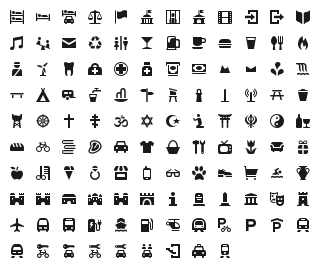
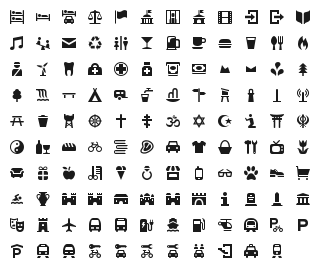
added coniferous and deciduous tree

diff --git a/font/osmic-preview.html b/font/osmic-preview.html
@@ -273,6 +273,8 @@
 .oc-toilets:before,
 .oc-town-hall:before,
 .oc-tram-stop:before,
+.oc-tree-coniferous:before,
+.oc-tree-deciduous:before,
 .oc-waste-basket:before,
 .oc-watchtower:before,
 .oc-water-tower:before,
@@ -404,6 +406,8 @@
 .oc-toilets:before { content: "\f169"; }
 .oc-town-hall:before { content: "\f16a"; }
 .oc-tram-stop:before { content: "\f16b"; }
+.oc-tree-coniferous:before { content: "\f177"; }
+.oc-tree-deciduous:before { content: "\f176"; }
 .oc-waste-basket:before { content: "\f16c"; }
 .oc-watchtower:before { content: "\f16d"; }
 .oc-water-tower:before { content: "\f16e"; }
@@ -423,7 +427,7 @@
   <body class="characters-off">
     <div id="page" class="container">
       <header>
-        <h1>osmic contains 117 glyphs:</h1>
+        <h1>osmic contains 119 glyphs:</h1>
         <a onclick="toggleCharacters(); return false;" href="#">Toggle Preview Characters</a>
       </header>
 
@@ -1894,6 +1898,32 @@
         <div class="usage">
           <input class="class" type="text" readonly="readonly" onClick="this.select();" value=".oc-tram-stop" />
           <input class="point" type="text" readonly="readonly" onClick="this.select();" value="&amp;#xf16b;" />
+        </div>
+      </div>
+      
+      <div class="glyph">
+        <div class="preview-glyphs">
+          <span class="step size-12"><span class="letters">Pp</span><i id="oc-tree-coniferous" class="oc-tree-coniferous"></i></span><span class="step size-14"><span class="letters">Pp</span><i id="oc-tree-coniferous" class="oc-tree-coniferous"></i></span><span class="step size-16"><span class="letters">Pp</span><i id="oc-tree-coniferous" class="oc-tree-coniferous"></i></span><span class="step size-18"><span class="letters">Pp</span><i id="oc-tree-coniferous" class="oc-tree-coniferous"></i></span><span class="step size-21"><span class="letters">Pp</span><i id="oc-tree-coniferous" class="oc-tree-coniferous"></i></span><span class="step size-24"><span class="letters">Pp</span><i id="oc-tree-coniferous" class="oc-tree-coniferous"></i></span><span class="step size-36"><span class="letters">Pp</span><i id="oc-tree-coniferous" class="oc-tree-coniferous"></i></span><span class="step size-48"><span class="letters">Pp</span><i id="oc-tree-coniferous" class="oc-tree-coniferous"></i></span><span class="step size-60"><span class="letters">Pp</span><i id="oc-tree-coniferous" class="oc-tree-coniferous"></i></span><span class="step size-72"><span class="letters">Pp</span><i id="oc-tree-coniferous" class="oc-tree-coniferous"></i></span>
+        </div>
+        <div class="preview-scale">
+          <span class="step">12</span><span class="step">14</span><span class="step">16</span><span class="step">18</span><span class="step">21</span><span class="step">24</span><span class="step">36</span><span class="step">48</span><span class="step">60</span><span class="step">72</span>
+        </div>
+        <div class="usage">
+          <input class="class" type="text" readonly="readonly" onClick="this.select();" value=".oc-tree-coniferous" />
+          <input class="point" type="text" readonly="readonly" onClick="this.select();" value="&amp;#xf177;" />
+        </div>
+      </div>
+      
+      <div class="glyph">
+        <div class="preview-glyphs">
+          <span class="step size-12"><span class="letters">Pp</span><i id="oc-tree-deciduous" class="oc-tree-deciduous"></i></span><span class="step size-14"><span class="letters">Pp</span><i id="oc-tree-deciduous" class="oc-tree-deciduous"></i></span><span class="step size-16"><span class="letters">Pp</span><i id="oc-tree-deciduous" class="oc-tree-deciduous"></i></span><span class="step size-18"><span class="letters">Pp</span><i id="oc-tree-deciduous" class="oc-tree-deciduous"></i></span><span class="step size-21"><span class="letters">Pp</span><i id="oc-tree-deciduous" class="oc-tree-deciduous"></i></span><span class="step size-24"><span class="letters">Pp</span><i id="oc-tree-deciduous" class="oc-tree-deciduous"></i></span><span class="step size-36"><span class="letters">Pp</span><i id="oc-tree-deciduous" class="oc-tree-deciduous"></i></span><span class="step size-48"><span class="letters">Pp</span><i id="oc-tree-deciduous" class="oc-tree-deciduous"></i></span><span class="step size-60"><span class="letters">Pp</span><i id="oc-tree-deciduous" class="oc-tree-deciduous"></i></span><span class="step size-72"><span class="letters">Pp</span><i id="oc-tree-deciduous" class="oc-tree-deciduous"></i></span>
+        </div>
+        <div class="preview-scale">
+          <span class="step">12</span><span class="step">14</span><span class="step">16</span><span class="step">18</span><span class="step">21</span><span class="step">24</span><span class="step">36</span><span class="step">48</span><span class="step">60</span><span class="step">72</span>
+        </div>
+        <div class="usage">
+          <input class="class" type="text" readonly="readonly" onClick="this.select();" value=".oc-tree-deciduous" />
+          <input class="point" type="text" readonly="readonly" onClick="this.select();" value="&amp;#xf176;" />
         </div>
       </div>
       

diff --git a/font/osmic.css b/font/osmic.css
@@ -136,6 +136,8 @@
 .oc-toilets:before,
 .oc-town-hall:before,
 .oc-tram-stop:before,
+.oc-tree-coniferous:before,
+.oc-tree-deciduous:before,
 .oc-waste-basket:before,
 .oc-watchtower:before,
 .oc-water-tower:before,
@@ -267,6 +269,8 @@
 .oc-toilets:before { content: "\f169"; }
 .oc-town-hall:before { content: "\f16a"; }
 .oc-tram-stop:before { content: "\f16b"; }
+.oc-tree-coniferous:before { content: "\f177"; }
+.oc-tree-deciduous:before { content: "\f176"; }
 .oc-waste-basket:before { content: "\f16c"; }
 .oc-watchtower:before { content: "\f16d"; }
 .oc-water-tower:before { content: "\f16e"; }
